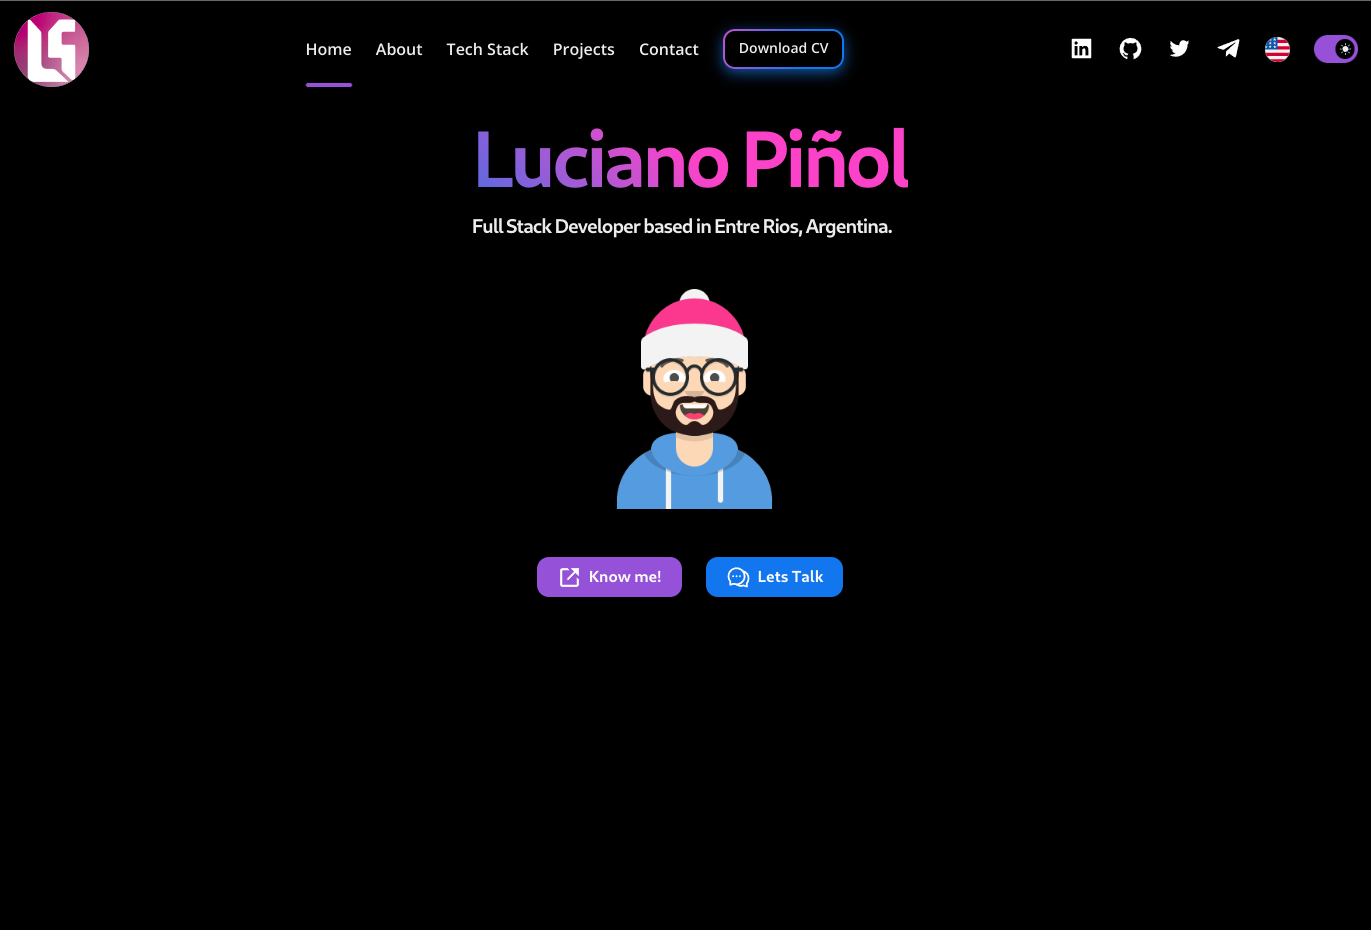
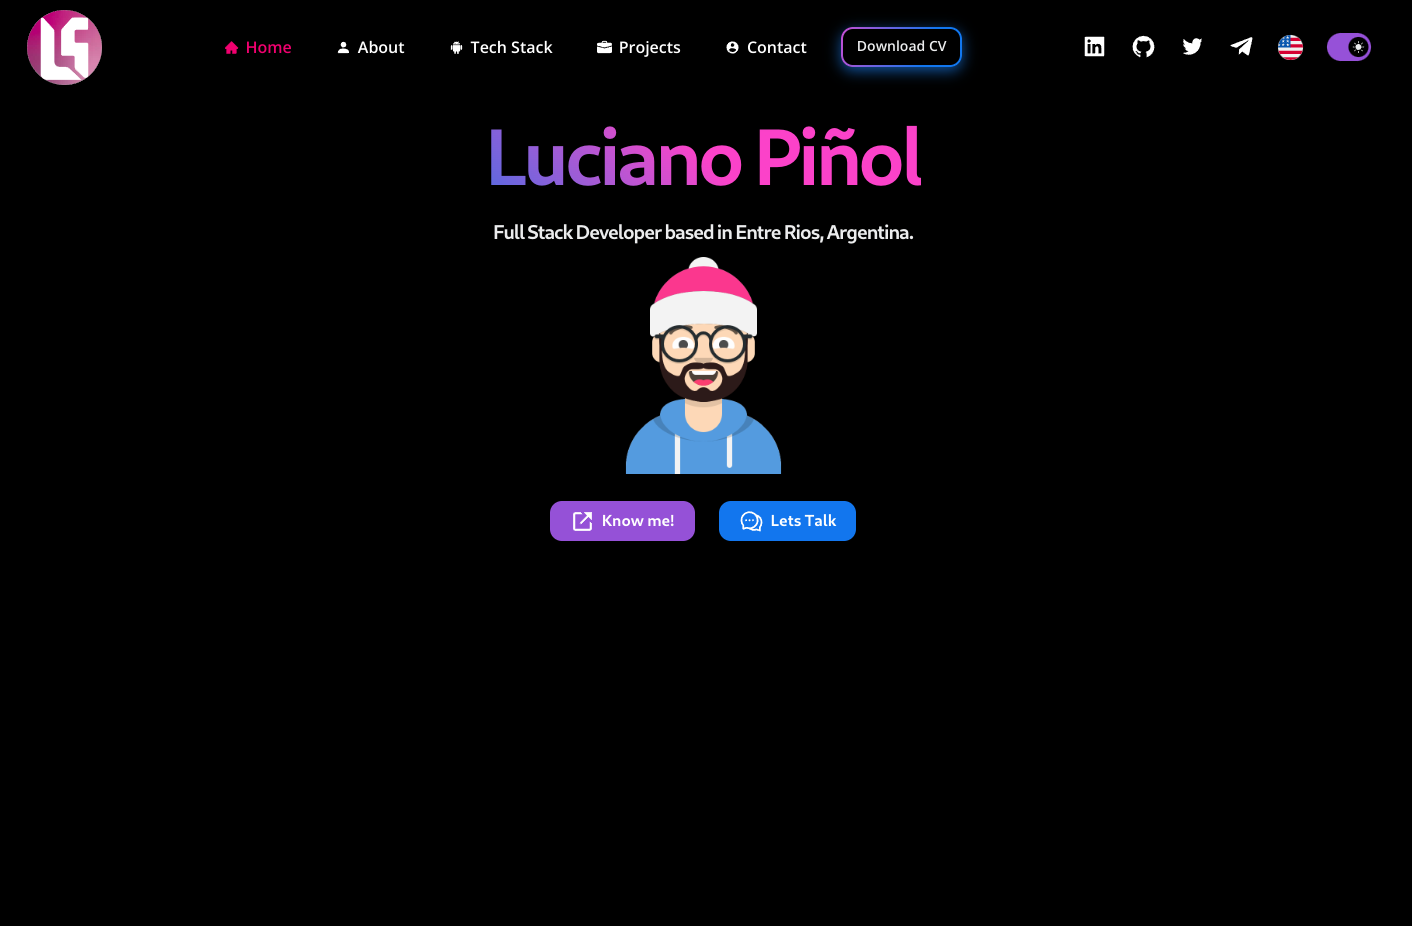
change image readme

diff --git a/src/assets/Icons.ts b/src/assets/Icons.ts
@@ -5,6 +5,7 @@ export {
     AiFillInfoCircle,
     AiOutlineComment,
     AiFillHome,
+    AiFillAndroid,
 } from 'react-icons/ai'
 export {
     BsFillSunFill,
@@ -12,10 +13,12 @@ export {
     BsTelegram,
     BsFillPersonFill,
     BsStack,
+    BsFillBriefcaseFill,
 } from 'react-icons/bs'
 export { BiLinkExternal } from 'react-icons/bi'
 export { FaTelegramPlane, FaRocket } from 'react-icons/fa'
 export { GrMail } from 'react-icons/gr'
 export { MdGTranslate, MdOutlineWork, MdOutlineEmail } from 'react-icons/md'
 export { IoShareSocialSharp } from 'react-icons/io5'
+export { IoMdContact } from 'react-icons/io'
 export { VscColorMode } from 'react-icons/vsc'
